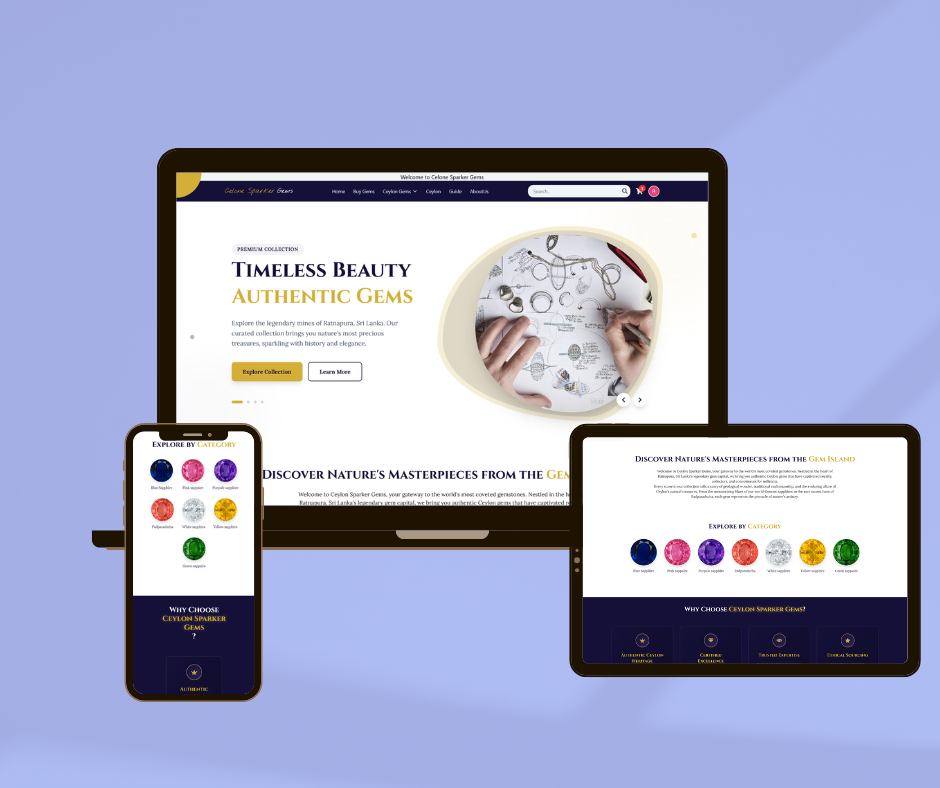
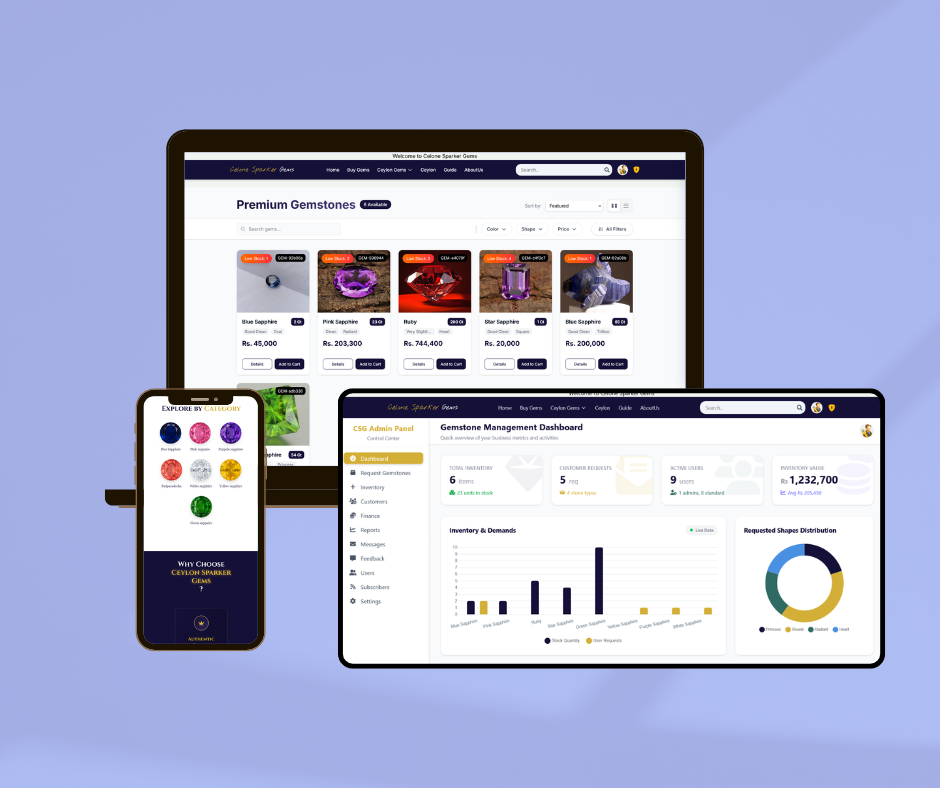
updated portfolio content

diff --git a/src/components/Contact.jsx b/src/components/Contact.jsx
@@ -1,8 +1,44 @@
-import React from 'react';
-import { Mail, Phone, MapPin, Send } from 'lucide-react';
+import React, { useState } from 'react';
+import { Mail, Phone, MapPin, Send, CheckCircle } from 'lucide-react';
 import './Contact.css';
 
 const Contact = () => {
+    const [formData, setFormData] = useState({ name: '', email: '', message: '' });
+    const [status, setStatus] = useState('');
+
+    const handleChange = (e) => {
+        setFormData({ ...formData, [e.target.name]: e.target.value });
+    };
+
+    const handleSubmit = (e) => {
+        e.preventDefault();
+        
+        // Web App URL from Google Apps Script
+        const scriptUrl = "https://script.google.com/macros/s/AKfycbykV2zxD48oGiE5fmskLtXI6XSzBRFm55B00v0z1akUR4xUS185OMHtmECOoTN7nil6/exec";
+
+        const formDataToSubmit = new FormData();
+        formDataToSubmit.append("name", formData.name);
+        formDataToSubmit.append("email", formData.email);
+        formDataToSubmit.append("message", formData.message);
+        formDataToSubmit.append("date", new Date().toLocaleString());
+
+        // We use mode: 'no-cors' to avoid cross-origin issues with Google Apps Script
+        fetch(scriptUrl, {
+            method: 'POST',
+            mode: 'no-cors',
+            body: formDataToSubmit
+        })
+        .then(() => {
+            // Show success and clear
+            setStatus('success');
+            setFormData({ name: '', email: '', message: '' });
+            setTimeout(() => setStatus(''), 4000);
+        })
+        .catch((error) => {
+            console.error('Error!', error.message);
+            alert("Something went wrong. Please try again.");
+        });
+    };
     return (
         <section id="contact" className="contact bg-soft">
             <div className="container">
@@ -45,15 +81,42 @@ const Contact = () => {
                         </div>
                     </div>
 
-                    <form className="contact-form" onSubmit={(e) => e.preventDefault()}>
+                    <form className="contact-form" onSubmit={handleSubmit}>
+                        {status === 'success' && (
+                            <div className="success-message" style={{ color: '#10b981', backgroundColor: '#d1fae5', padding: '12px', borderRadius: '6px', marginBottom: '20px', display: 'flex', alignItems: 'center', gap: '10px', fontSize: '14px', fontWeight: '500' }}>
+                                <CheckCircle size={20} />
+                                <span>Send successful! Details saved to excel file.</span>
+                            </div>
+                        )}
                         <div className="form-group">
-                            <input type="text" placeholder="Your Name" required />
+                            <input 
+                                type="text" 
+                                name="name"
+                                placeholder="Your Name" 
+                                value={formData.name}
+                                onChange={handleChange}
+                                required 
+                            />
                         </div>
                         <div className="form-group">
-                            <input type="email" placeholder="Your Email" required />
+                            <input 
+                                type="email" 
+                                name="email"
+                                placeholder="Your Email" 
+                                value={formData.email}
+                                onChange={handleChange}
+                                required 
+                            />
                         </div>
                         <div className="form-group">
-                            <textarea placeholder="Your Message" rows="5" required></textarea>
+                            <textarea 
+                                name="message"
+                                placeholder="Your Message" 
+                                rows="5" 
+                                value={formData.message}
+                                onChange={handleChange}
+                                required
+                            ></textarea>
                         </div>
                         <button type="submit" className="submit-btn">
                             Send Message

diff --git a/src/components/Projects.jsx b/src/components/Projects.jsx
@@ -7,6 +7,9 @@ import image1 from '../assets/projectsUi/csg.png';
 import image3 from '../assets/projectsUi/moneyMate.png';
 import image4 from '../assets/projectsUi/topjobs.png';
 import image5 from '../assets/projectsUi/eCare.png';
+import smartCampusImg from '../assets/projectsUi/smartCampusHub.png';
+import campusConnectImg from '../assets/projectsUi/CampusConnect.png';
+import vibestaImg from '../assets/projectsUi/vibesta.png';
 
 const Projects = () => {
     const projects = [
@@ -19,12 +22,20 @@ const Projects = () => {
             link: '#'
         },
         {
-            title: 'Vehicle Spare Parts Management System',
-            description: 'A modular vehicle repair management web app with status tracking, PDF reports, and admin dashboard.',
+            title: 'Smart Campus Operations Hub',
+            description: 'Scalable campus management platform featuring OAuth2 authentication, RBAC, and a notification system.',
+            tech: ['React', 'Spring Boot', 'MongoDB'],
+            type: 'Full Stack',
+            image: smartCampusImg,
+            link: 'https://github.com/RavinduYashas/smart-campus-operations-hub.git'
+        },
+        {
+            title: 'CampusConnect',
+            description: 'Collaborative Q&A platform for students with user management and knowledge sharing features.',
             tech: ['React', 'Node.js', 'MongoDB', 'Express'],
             type: 'Full Stack',
-            image: null,
-            link: '#'
+            image: campusConnectImg,
+            link: 'https://github.com/RavinduYashas/campusconnect-mern.git'
         },
         {
             title: 'MoneyMate Finance Tracker',
@@ -33,6 +44,14 @@ const Projects = () => {
             type: 'Mobile App',
             image: image3,
             link: 'https://github.com/RavinduYashas/Finance-Tracker.git'
+        },
+                {
+            title: 'Vibesta Music App',
+            description: 'Modern music streaming application UI/UX design focusing on seamless user experience.',
+            tech: ['Figma'],
+            type: 'UI/UX Design',
+            image: vibestaImg,
+            link: '#'
         },
         {
             title: 'Topjob.lk Website Redesign',
@@ -43,19 +62,27 @@ const Projects = () => {
             link: '#'
         },
         {
-            title: 'Video Lane - Browsing System',
-            description: 'Backend system for a video uploading and browsing platform using enterprise Java.',
-            tech: ['Java Servlets', 'JSP', 'MySQL'],
-            type: 'Backend',
-            image: null,
-            link: '#'
-        },
-        {
             title: 'Cristels-E-Care Healthcare',
             description: 'A healthcare management system designed to streamline patient records and appointments.',
             tech: ['HTML', 'CSS', 'JavaScript', 'PHP'],
             type: 'Web System',
             image: image5,
+            link: 'https://github.com/RavinduYashas/CRISTELS-E-CARE.git'
+        },
+        {
+            title: 'Vehicle Spare Parts Management System',
+            description: 'A modular vehicle repair management web app with status tracking, PDF reports, and admin dashboard.',
+            tech: ['React', 'Node.js', 'MongoDB', 'Express'],
+            type: 'Full Stack',
+            image: null,
+            link: 'https://github.com/dilshan03/Spare-Parts-and-Repair-Management-System.git'
+        },
+        {
+            title: 'Video Lane - Browsing System',
+            description: 'Backend system for a video uploading and browsing platform using enterprise Java.',
+            tech: ['Java Servlets', 'JSP', 'MySQL'],
+            type: 'Backend',
+            image: null,
             link: '#'
         }
     ];

diff --git a/src/components/Skills.jsx b/src/components/Skills.jsx
@@ -5,7 +5,7 @@ const Skills = () => {
     const skillCategories = [
         {
             title: 'Tech Skills',
-            skills: ['HTML', 'CSS', 'JavaScript', 'React.js', 'Node.js', 'Express.js', 'MongoDB', 'Java', 'Kotlin', 'PHP', 'C', 'C++', 'SQL', 'MySQL', 'R']
+            skills: ['HTML', 'CSS', 'JavaScript', 'React.js', 'Node.js', 'Express.js', 'MongoDB', 'Java', 'Kotlin', 'PHP', 'C', 'C++', 'SQL', 'MySQL', 'R', 'Spring Boot']
         },
         {
             title: 'Tools & Platforms',

diff --git a/src/components/Hero.css b/src/components/Hero.css
@@ -116,7 +116,7 @@
     border-radius: 30% 70% 70% 30% / 30% 30% 70% 70%;
     z-index: -1;
     opacity: 0.8;
-    animation: blob-animate 8s infinite alternate;
+    /* animation: blob-animate 8s infinite alternate; */
 }
 
 @keyframes blob-animate {
